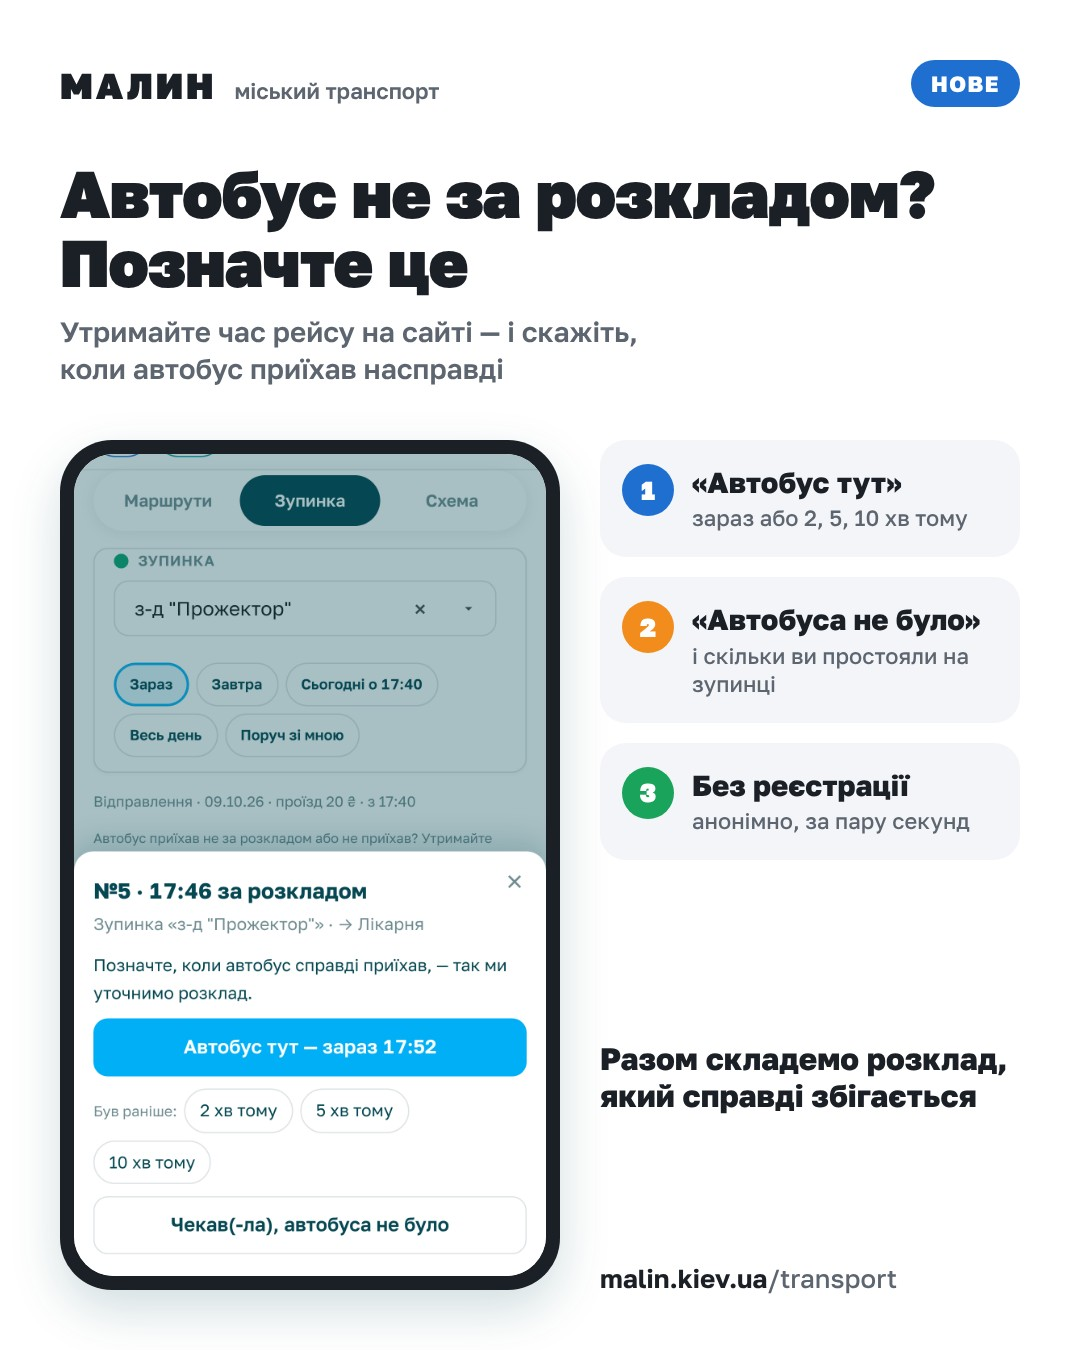
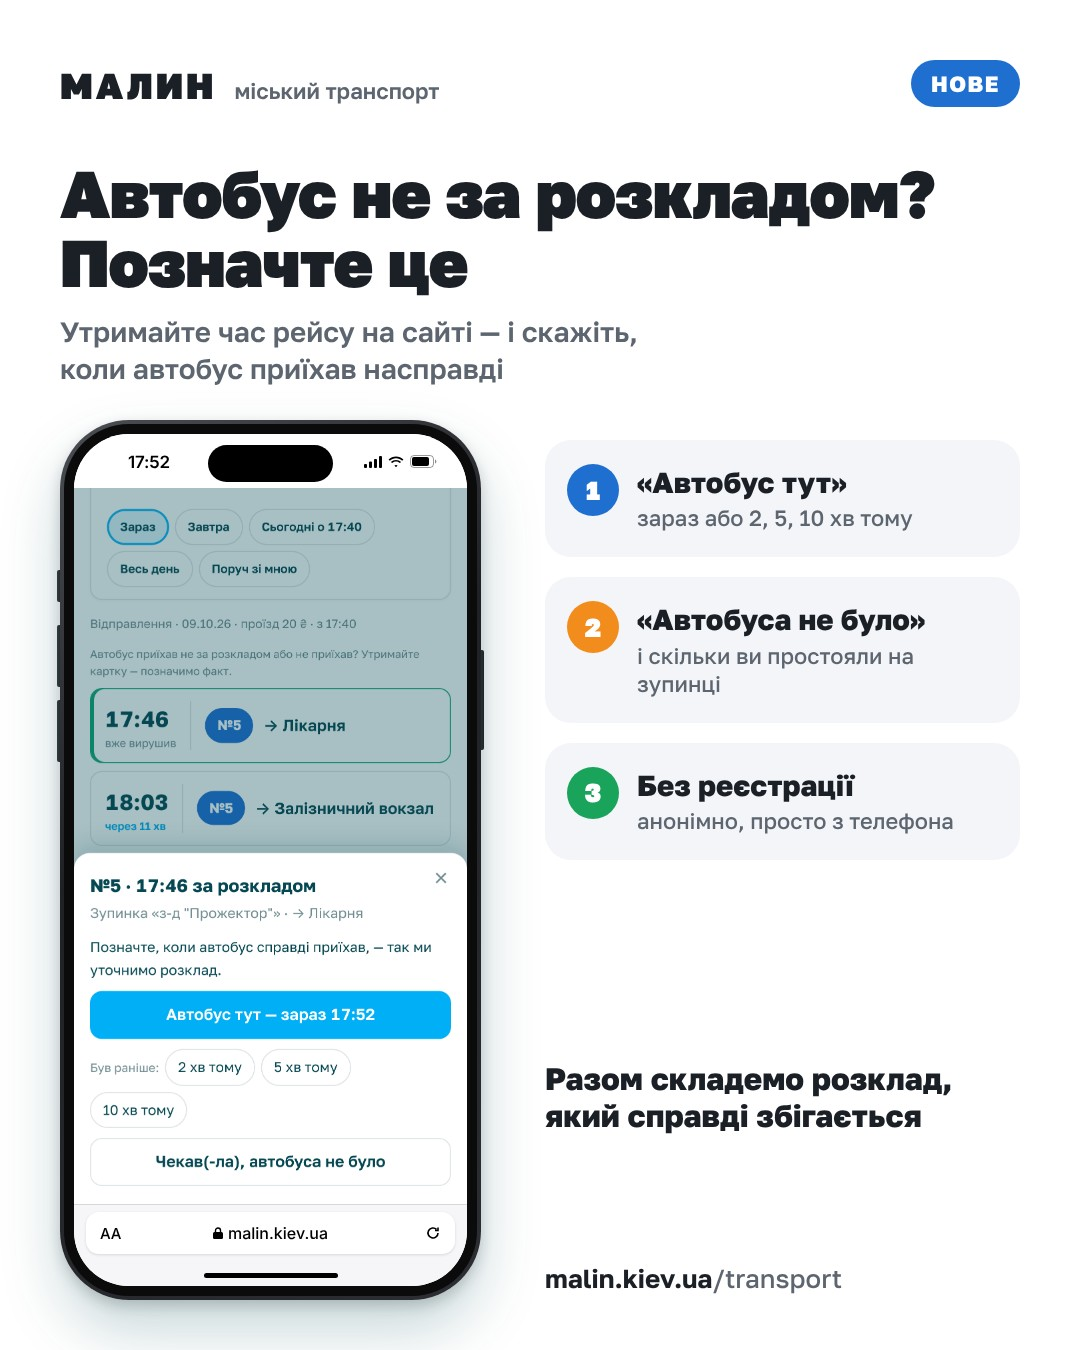
Docs: arrivals post — full iPhone screens in an iPhone frame
All three images now show whole screens in iPhone 15 proportions (393 × 852 pt)
instead of cropped ones: the page re-shot from the live site at 393 × 716,
with the status bar, Dynamic Island and the Safari address bar drawn in an
iPhone frame.

Claude-Session: https://claude.ai/code/session_01HPs5sUtJMLF5cegugvfhcy

Changed region(s): [[0.0306, 0.3111, 0.9472, 0.9956]]

diff --git a/Docs/arrivals-facebook-post.md b/Docs/arrivals-facebook-post.md
@@ -46,8 +46,10 @@
 
 ## Як зроблено картинки
 
-- **Скріншоти — з робочого сайту** malin.kiev.ua (09.10.2026, телефон 390 px, Playwright), з
-  реальним розкладом бази. Приклад той самий, що в задачі: №5, «з-д «Прожектор»», рейс о 17:46 у
+- **Скріншоти — з робочого сайту** malin.kiev.ua (09.10.2026, Playwright), з реальним розкладом
+  бази. Екран — iPhone 15 (393 × 852 pt, ×3): сторінка знята у вікні 393 × 716 (без рядка стану
+  54 pt і нижньої панелі Safari 82 pt), а рядок стану (17:52), Dynamic Island і адресний рядок
+  Safari з malin.kiev.ua домальовано в рамці. Приклад той самий, що в задачі: №5, «з-д «Прожектор»», рейс о 17:46 у
   бік Лікарні.
 - Годинник браузера зафіксовано на 17:52, щоб кнопка показувала «Автобус тут — зараз 17:52».
   Запит `POST /transport/arrival-reports` перехоплено в браузері, тож у прод-базу тестові позначки
@@ -55,8 +57,8 @@
 - **Колонка «насправді» на третій картинці** порожня, бо позначок ще немає. Рядок 17:46 → 17:52
   «+6 хв» — приклад, на картинці так і підписано «приклад позначки». Час «за розкладом» — справжній,
   з повного розкладу сторінки маршруту.
-- Пост про телефон: усі користуються сайтом з телефона, тому на картинках лише екрани телефона
-  (390 px), а в тексті — «утримайте палець».
+- Пост про телефон: усі користуються сайтом з телефона, тому на картинках цілі екрани в рамці
+  iPhone (пропорції екрана iPhone, без обрізання), а в тексті — «утримайте палець».
 - **Макети** — HTML 1080 × 1350 у стилі постів про наклейки ([1](./stickers-facebook-post.md),
   [2](./stickers-facebook-post-2.md)): Golos Text, «МАЛИН» 900, кольорові номери кроків. Знято
   Playwright-ом.
